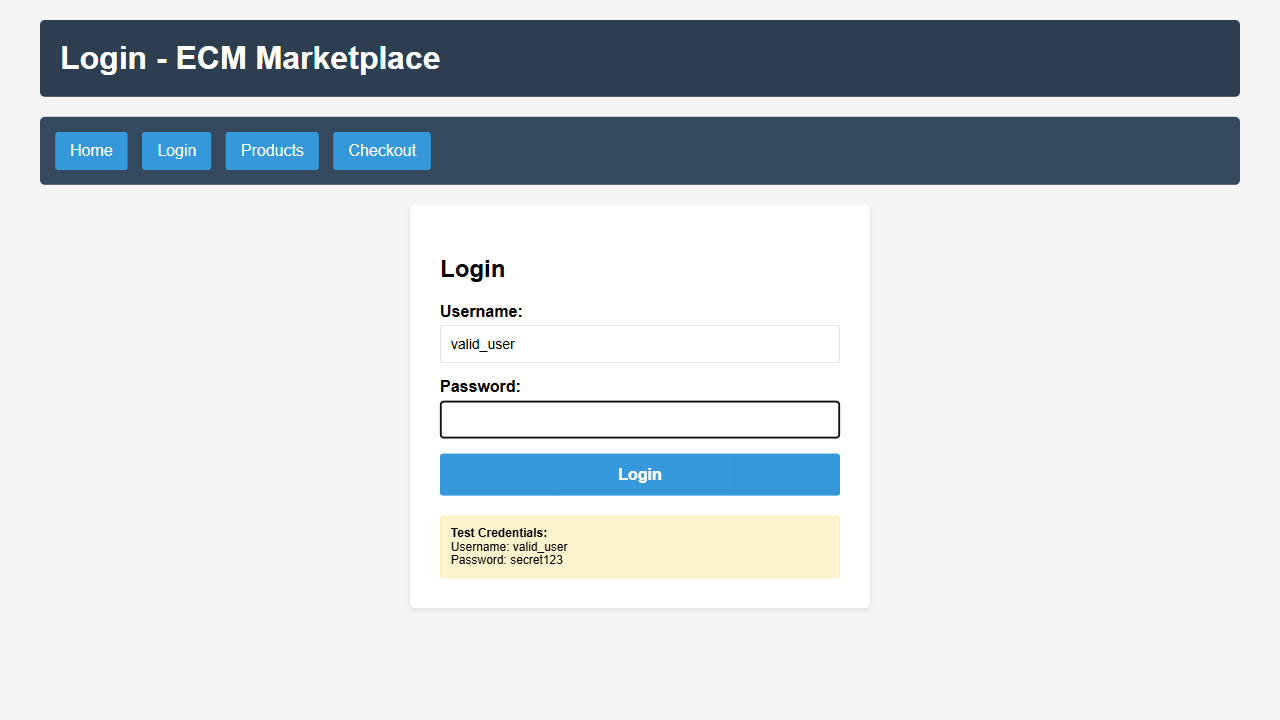
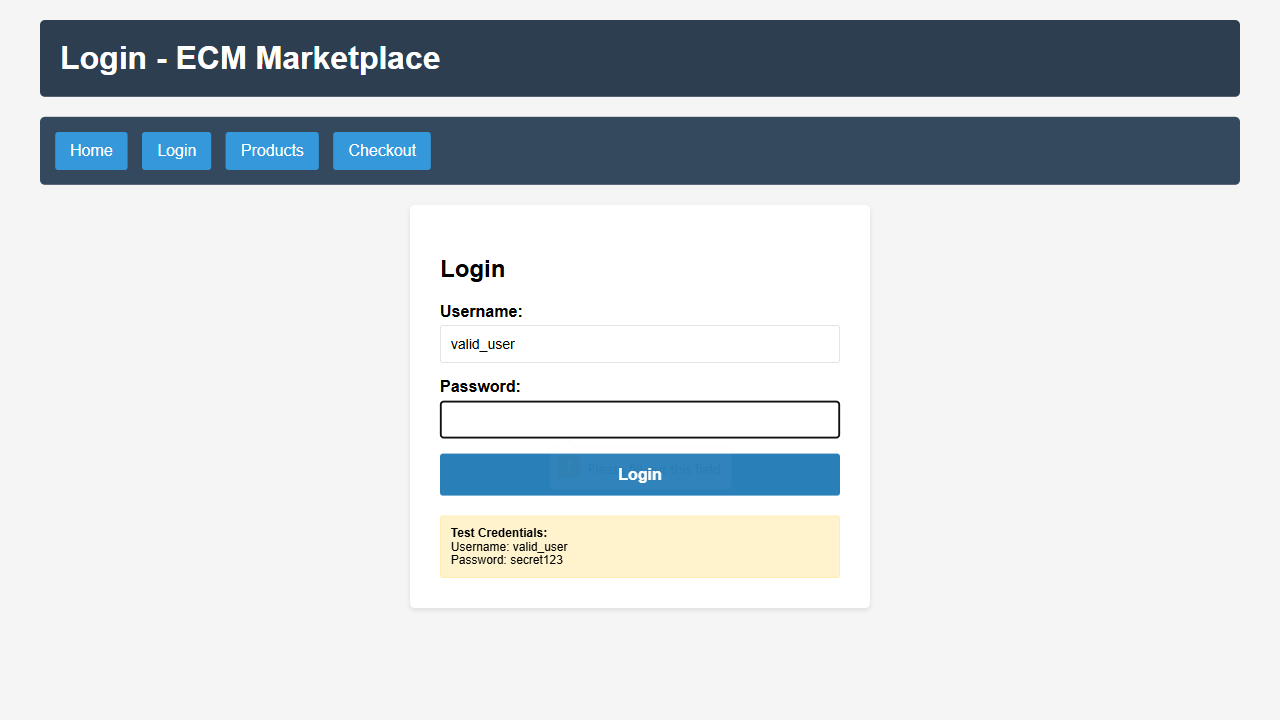
grande finale

Changed region(s): [[0.3438, 0.6111, 0.6562, 0.7028]]

diff --git a/playwright-report/index.html b/playwright-report/index.html
@@ -87,4 +87,4 @@ Error generating stack: `+l.message+`
     <div id='root'></div>
   </body>
 </html>
[2 lines of base64/hex data omitted]

diff --git a/tests/FrontEnd/login.spec.ts b/tests/FrontEnd/login.spec.ts
@@ -14,7 +14,7 @@ test.beforeEach(async ({ request, page }) => {
 
 test.describe.parallel('Login', () => {
 
-    test('login correto', async ({ request, page }) => {
+    test('login correto', async ({ page }) => {
         const navigationPage = new NavegationPage(page);
         await navigationPage.loginPage();
         await page.fill('#username', 'valid_user');
@@ -22,7 +22,7 @@ test.describe.parallel('Login', () => {
         await page.fill('#password',  'secret123');
         await page.screenshot({path: "Evidencias/login/PreenchimentoCorretoAmbos.png"});
         await page.click('#btnLogin');
-        await page.locator('#btnLogin').click();
+        //await page.locator('#btnLogin').click();
         await page.screenshot({path: "Evidencias/login/LoginProductsCorreto.png"});
         
         
